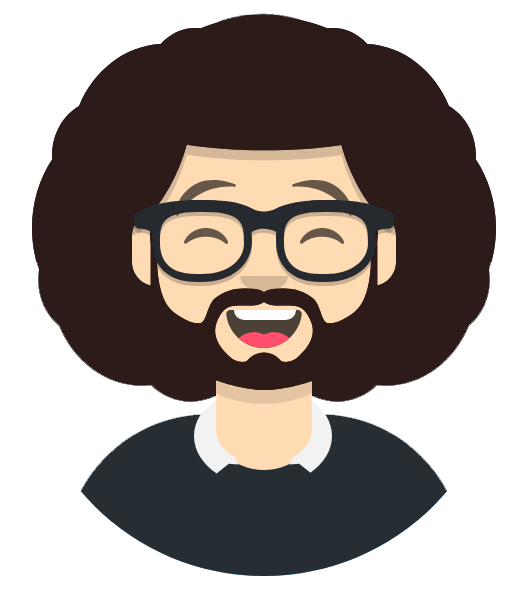
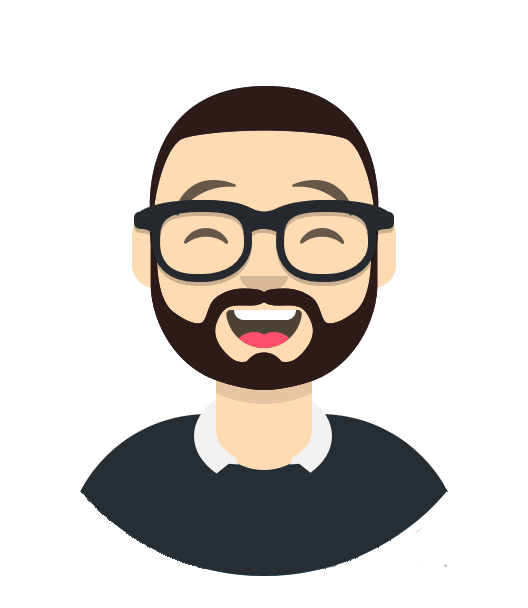
tut tut

Changed region(s): [[0.0606, 0.0, 0.9394, 0.6875]]

diff --git a/src/components/Team/index.js b/src/components/Team/index.js
@@ -2,10 +2,13 @@ import Arnaud from 'src/assets/images/equipe/Arnaud_clear_02.png';
 import Julien from 'src/assets/images/equipe/Julien_clear.png';
 import Ludo from 'src/assets/images/equipe/Ludo_clear.png';
 import Samuel from 'src/assets/images/equipe/Samuel_clear_03.png';
-import Vincent from 'src/assets/images/equipe/Vincent_clear_03.png';
+import Vincent from 'src/assets/images/equipe/Vincent_clear_02.png';
 import Anaglyph from 'src/assets/images/equipe/Anaglyph.png';
 import Oakley from 'src/assets/images/equipe/Oakley_02.png';
 import Synthwave from 'src/assets/images/equipe/synthwave.png';
+import Julienhair from 'src/assets/images/equipe/Julien_clear_hair.png';
+import ColonelVincent from 'src/assets/images/equipe/Vincent_clear_03.png';
+
 
 
 
@@ -41,7 +44,8 @@ const Team = () => {
         <div className="team_card team_card_2">
           <div className="team_card_circle color_2" />
           <img className="team_card_img" src={Julien} />
-          <div className="team_card_text">
+          <img id="hair_img" className="team_card_img_bonus" src={Julienhair} />
+          <div id="hair_txt" className="team_card_text">
             <div className="team_card_name">Julien</div>
             <div className="team_card_role">Lead Dev Back</div>
             <div className="team_card_contact">
@@ -85,7 +89,8 @@ const Team = () => {
         <div className="team_card team_card_5">
           <div className="team_card_circle color_5" />
           <img className="team_card_img" src={Vincent} />
-          <div className="team_card_text">
+          <img id="colonel_img" className="team_card_img_bonus" src={ColonelVincent} />
+          <div id="colonel_txt" className="team_card_text">
             <div className="team_card_name">Vincent</div>
             <div className="team_card_role">Project Manager</div>
             <div className="team_card_contact"></div>

diff --git a/src/styles/partials/_card.scss b/src/styles/partials/_card.scss
@@ -154,83 +154,5 @@
     }
 }
 
-// .card_foodtruck_content_description_address_postalcodeandcity {
-//   @include for-size(phone-only) {
-//     transform: translateY(17px);
-//     opacity: 1;
-//     }
-// }
-// &_address_street, &_address_postalcode, &_address_city {
-//   opacity: 1;
-//   transform: translateY(5px);
-// }
 
-// .card_foodtruck_img {
-//   position:relative ;
-//   margin: auto auto;
-//   width: 5rem;
-//   height: 5rem;
-//   border-radius: 2.5rem;
-//   object-fit: cover;
-//   background-color: vars.$paleyellow;
-//   @include BoxShadow(8);
-
-// }
-
-// .card_foodtruck_content{
-//   padding: 0 .5rem;
-//   display: flex;
-//   flex-direction: column;
-// }
-
-// .card_foodtruck_content_title {
-//   font-size: 1.2rem;
-// }
-
-// .card_foodtruck_content_subtitle {
-//   display: flex;
-// }
-
-// .card_foodtruck_content_category {
-//   font-size: .8rem;
-//   padding: .4rem;
-//   height: 1.5rem;
-//   border-radius: 1rem;
-//   margin-right: 1rem;
-//   text-align: center;
-//   text-transform: uppercase;
-//   background-color: vars.$retropeach;
-// }
-
-// .card_foodtruck_content_rating svg {
-//   width: 1rem;
-//   color : vars.$retroyellow;
-// }
-
-// .card_foodtruck_content_description {
-//   display: flex;
-//   align-items: center;
-//   & svg{
-//     width: 1rem;
-//     color : vars.$retroredhot;
-//     margin-right: .5rem;
-//   }
-// }
-
-// .card_foodtruck_content_description {
-//   display: block;
-//   color: vars.$retroredhot;
-// }
-
-// .card_foodtruck_content_description_address {
-//   display: flex;
-// }
-
-// .card_foodtruck_content_description_details {
-//   display: none;
-// }
-
-// .card_foodtruck_content_description_address {
-//   display: block;
-// }
 

diff --git a/src/styles/partials/_welcome.scss b/src/styles/partials/_welcome.scss
@@ -1,7 +1,15 @@
 .welcome {
+  // display: flex;
+  // width: 100%;
+  // margin: .5 auto;
   display: flex;
   width: 90%;
-  margin: 1rem auto;
+  max-width: 100rem;
+  padding: 1rem;
+  border-radius: .2rem;
+  margin: 2rem auto 1rem;
+  background-color: #FFF;
+  @include BoxShadow(1);
 
   flex-direction: column;
   justify-content: center;
@@ -9,6 +17,62 @@
 }
 
 .welcome_logo_img {
-  height: 20rem;
-  width: 25rem;
+  width: 20%;
+  margin: .5rem auto 1rem auto;
+}
+
+.welcome_logo_txt_01 {
+  margin: .5rem auto;
+  font-size: 2rem;
+  font-weight: bold;
+  color: #1E3030;
+}
+.welcome_logo_txt_01_5 {
+  margin: 0.1rem auto;
+  font-size: 1.15rem;
+  font-weight: bold;
+  color: #1E3030;
+}
+
+.welcome_logo_txt_02 {
+  margin: .5rem auto;
+  font-size: 2rem;
+  font-weight: bold;
+  color: #1E3030;
+}
+
+.welcome_logo_txt_03 {
+  margin: .2rem auto;
+  font-size: 1rem;
+  font-weight: bold;
+  color: #1E3030;
+}
+
+.welcome_logo_txt_04 {
+  margin: 1rem auto .2rem;
+  font-size: 2rem;
+  font-weight: bold;
+  color: #1E3030;
+}
+
+// ----- RESPONSIVE ----- //
+
+.welcome_logo_img {
+  @include for-size(phone-only) {
+    width: 100%;
+  }
+}
+
+.welcome_logo_txt_01 {
+  @include for-size(phone-only) {
+    font-size: 1.3rem;
+  }
+}
+
+.welcome_logo_txt_02,
+.welcome_logo_txt_03,
+.welcome_logo_txt_04 {
+  @include for-size(phone-only) {
+    display: none;
+  }
 }

diff --git a/src/components/Welcome/index.js b/src/components/Welcome/index.js
@@ -1,4 +1,5 @@
 import FMT_logo_full from 'src/assets/images/FMT_logo_full.png';
+import { MdLocationOn } from "react-icons/md";
 
 
 const Welcome = () => {
@@ -8,11 +9,12 @@ const Welcome = () => {
 
     <>
       <div className="welcome">
+        <div className="welcome_logo_txt_01">Bienvenue sur Find My Truck ! </div>
+        {/* <div className="welcome_logo_txt_01_5">Le seul site (fonctionnel) de recherche de foodtrucks </div> */}
         <img className='welcome_logo_img' src={FMT_logo_full} alt="Logo FindMyTruckFull"/>
-        <div className="warning">Bienvenue sur Find My Truck ! </div>
-        <div className="warning">Actuellement, il n'y a aucun FoodTruck autour de toi</div>
-        <div className="warning">Acceptes la géolocalisation si tu veux trouver les meilleurs FoodTrucks à proximité</div>
-        <div className="warning">Sinon n'hésites pas à faire une recherche dans une ville de ton choix</div>
+        <div className="welcome_logo_txt_02">Actuellement, il n'y a aucun FoodTruck autour de toi</div>
+        <div className="welcome_logo_txt_03">Si ce n'est pas déjà fait, accepte la géolocalisation <MdLocationOn /> si tu veux trouver les meilleurs FoodTrucks à proximité</div>
+        <div className="welcome_logo_txt_04">Sinon n'hésites pas à faire une recherche dans une ville de ton choix</div>
       </div>
     </>
   );

diff --git a/src/styles/partials/_error.scss b/src/styles/partials/_error.scss
@@ -81,11 +81,12 @@ html, body {
   left: 0;
   top: -11px;
   border-radius: 10px 10px 0 0;
-  width: 296px;
-  z-index: 2;
+  width: 300px;
+  z-index: 3;
   height: 20px;
-  background: vars.$paleblue;
-  border: 3px solid vars.$paleblue;
+  background: #fff;
+  border: 3px solid #fff;
+  border-bottom: 3px solid #fff;
 }
 
 .car .body div {
@@ -625,14 +626,14 @@ html, body {
 }
 
 //TODO Keyframes à commenter pour récupérer le mouvement du foodtruck
-// @keyframes carDrive {
-//   0% {
-//   transform: translateX(0%);
-//   }
-//   100% {
-//   transform: translateX(0%);
-//   }
-// }
+@keyframes carDrive {
+  0% {
+  transform: translateX(0%);
+  }
+  100% {
+  transform: translateX(0%);
+  }
+}
 
 
 /* nuages */

diff --git a/src/middlewares/ajax.js b/src/middlewares/ajax.js
@@ -7,8 +7,8 @@ import { UPDATE_INFORMATIONS } from '../actions/profil';
 
 // set the baseURl
 const api = axios.create({
-  // baseURL: 'http://ec2-100-26-195-84.compute-1.amazonaws.com/api',
   baseURL: 'http://julien-bonnaud.vpnuser.lan/Sz-Apo/projet-find-my-truck/findmytruck/public',
+  // baseURL: 'http://ec2-18-205-163-149.compute-1.amazonaws.com',
 
 });
 
@@ -171,7 +171,7 @@ const ajax = (store) => (next) => (action) => {
       const stateProfil = store.getState();
       const data = JSON.parse(sessionStorage.getItem('key'));
       const id = data.data.id;
-      c
+      
 
       api.patch(`api/v1/users/${id}`, {
         nickname: stateProfil.profil.nicknameProfil,

diff --git a/src/styles/partials/_team.scss b/src/styles/partials/_team.scss
@@ -17,6 +17,8 @@
   flex-direction: column;
   width: 280px;
   transition: all 2s;
+  height:22rem;
+
   &:hover {
     .team_card_text {
       position: relative;
@@ -33,6 +35,9 @@
       bottom: 80px;
       opacity : 1;
     }
+
+
+
     
     .team_card_img{
       transform: scale(1.1);
@@ -145,6 +150,26 @@
 #synthwave_txt {
   position: relative;
   transform: translateY(-250px);
+}
+
+#hair_img {
+  bottom: 23rem;
+  height:  21rem;
+}
+
+#hair_txt {
+  position: relative;
+  transform: translateY(-330px);
+}
+
+#colonel_img {
+  bottom: 23rem;
+  height:  21rem;
+}
+
+#colonel_txt {
+  position: relative;
+  transform: translateY(-330px);
 }
 
 

diff --git a/src/components/Register/index.js b/src/components/Register/index.js
@@ -117,7 +117,11 @@ const RegisterForm = () => {
         to="/connexion"
         exact
         >
-        <li  className="">Parfait tu peux maintenant te connecter !</li>        
+          <div className="contact_result">
+            <div className="contact_result_message" >Ton inscription a bien été prise en compte</div>
+            <div className="contact_result_message" >tu peux maintenant te connecter</div>
+            <button className="login_form_button">CONNEXION</button>
+          </div>        
         </NavLink>
        </> 
         

diff --git a/src/components/Header/index.js b/src/components/Header/index.js
@@ -99,7 +99,7 @@ const Header = ({}) => {
           
             {( role !== undefined && (role[0]==="ROLE_ADMIN" || role[0]==="ROLE_MODO" )) &&
               <button className='header_right_link_backoffice'  >
-                <a href="http://julien-bonnaud.vpnuser.lan/Sz-Apo/projet-find-my-truck/findmytruck/public"
+                <a href="http://ec2-18-205-163-149.compute-1.amazonaws.com/"
                   target="_blank" >
                   <MdOutlineAdminPanelSettings />
                 </a>

diff --git a/src/components/Footer/index.js b/src/components/Footer/index.js
@@ -23,7 +23,7 @@ import { NavLink } from 'react-router-dom';
         to="/equipe"
         exact
         >
-          <li  className="footer_list_el">FIND MY TRUCK - FOODTRUCK CONOISSEUR - EST. 2021</li>
+          <li  className="footer_list_el">Find my truck - Fièrement propulsé par O'clock depuis 2021</li>
         </NavLink>
 
         <NavLink 

diff --git a/src/components/Map/index.js b/src/components/Map/index.js
@@ -21,13 +21,9 @@ const Map = ({
   longitude,
 }) => {
     
-  const baseURL= 'http://julien-bonnaud.vpnuser.lan/Sz-Apo/projet-find-my-truck/findmytruck/public';
-
   const lat = Number(latitude);
   const lng = Number(longitude);
- 
   
-
   //Map generator
   const [viewport, setViewport] = useState({
     

diff --git a/src/components/MarkerPin/index.js b/src/components/MarkerPin/index.js
@@ -12,6 +12,7 @@ const MarkerPin = ({
 }) => {
     
   const baseURL = 'http://julien-bonnaud.vpnuser.lan/Sz-Apo/projet-find-my-truck/findmytruck/public';
+  // const baseURL = 'http://ec2-18-205-163-149.compute-1.amazonaws.com';
 
   const lat = Number(latitude);
   const lng = Number(longitude);
